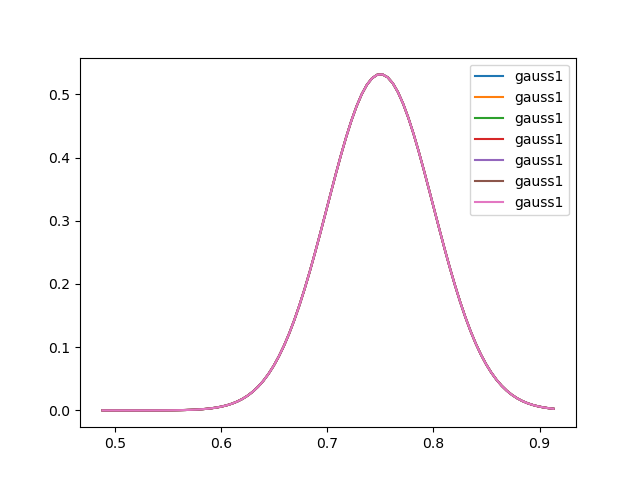
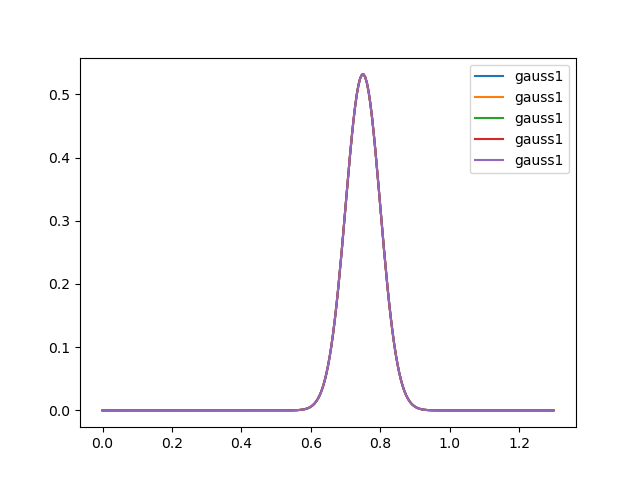
Novos resultados sem o volumes 40 e 50, fazendo a analise linear e em seguida plotando a reta calculada

diff --git a/applyingDeconvAz.py b/applyingDeconvAz.py
@@ -8,20 +8,26 @@ from scipy import signal
 
 import numpy as np
 
+from sklearn.metrics import r2_score
+
 df = pd.read_csv('analise.csv')
 
-#mu1 = 0.75
+mu1 = 0.75
 
-mu1 = 0.23
+#mu1 = 0.23
 
 sig = 0.05
 
-volumes = [1, 2, 3, 4, 5, 6, 7]
+volumes = [1, 2, 3, 6, 7]
+
+y_value = [] 
+
+x_value = [0.2, 0.4, 0.6, 1.2, 1.4] # Concentracao Retirada do volume e qtd de azitromicina colocada
 
 for volume in volumes:
-	signalVolu = df[f'Av. I2 {volume}0uL'].values[100:188]
+	signalVolu = df[f'Av. I2 {volume}0uL'].values #[100:188]
 
-	x = df['E (V)'].values[100:188]
+	x = df['E (V)'].values #[100:188]
 
 	gauss1 = (1/(mu1*np.sqrt(2*np.pi)))*np.exp((-0.5)*( (x-mu1)/sig)**2)
 
@@ -47,12 +53,18 @@ for volume in volumes:
 
 #	plt.plot(x, signal_t_wo_g1, label=f'Deconv{volume}0uL')
 	
+	y_value.append(max(z2))
+	
+#	x_value.append(x[z2.index(max(z2))])
+	
+#	x_value.append(x[np.where(max(z2) == z2)])
+	
 	plt.plot(x, z2, label=f'Deconv{volume}0uL - filtered')
 
-	#plt.yticks(np.arange(-0.2, 0.4, 0.05)) 
-	#plt.xlim(0.1, 1.0)
+#	plt.yticks(np.arange(-0.2, 0.4, 0.05)) 
+#	plt.xlim(0.1, 1.0)
 
-	#plt.ylim(-0.1, 0.2)
+#	plt.ylim(-0.1, 0.2)
 
 	plt.legend()
 	if volume >= 4:
@@ -76,9 +88,41 @@ for volume in volumes:
 
 	plt.plot(x, signal_conv_t, label='signal conv t')
 
+
 	plt.legend()
 	if volume >= 4:
 		plt.savefig('signal.png')
+
+print(y_value, x_value)
+plt.figure(4)
+
+coef = np.polyfit(x_value,y_value,1)
+poly1d_fn = np.poly1d(coef) 
+ 
+#plt.plot(x,y, 'yo', x, poly1d_fn(x_value))
+	
+y_calc = poly1d_fn(x_value)
+
+realy = []
+
+calcrealy = []
+
+print(y_calc, type(y_calc))
+
+for i,ii in zip(y_value, y_calc):
+	realy.append(abs(i))	
+	calcrealy.append(abs(ii))	
+
+R2 = r2_score(realy, calcrealy)	
+	
+plt.plot(x_value, y_value, label='Dados')
+plt.plot(x_value, y_calc,  label=f'y={"{:.2f}".format(abs(coef[0]))}*x + {"{:.2f}".format(abs(coef[1]))}, R^2 = {"{:.2f}".format(R2)}')
+
+plt.xlabel('Concetracao (mg/L)')
+plt.ylabel('Corrente (apos convolucao e filtro)')
+plt.legend()
+plt.savefig('fitting.png')
+
 
 #plt.show()
 
